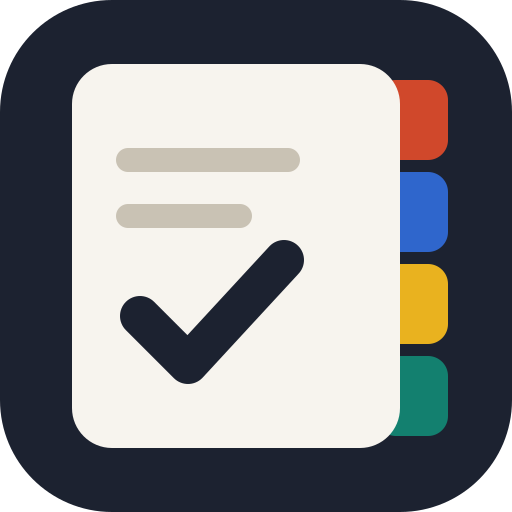
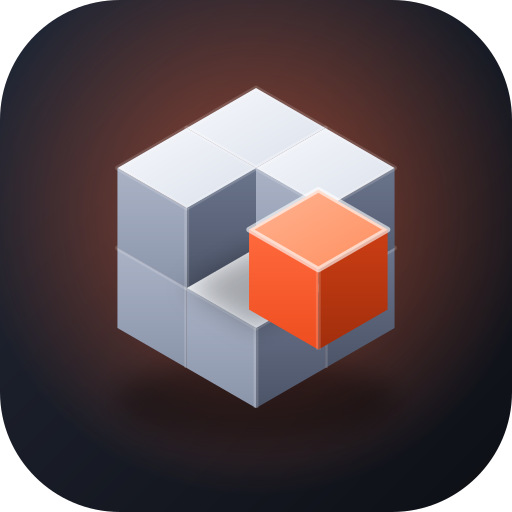
feat(produtividade): novo símbolo 3D — cubo de blocos com a ação a sair
O símbolo antigo (folha com separadores) ficava fraco a 16px. O novo é um
cubo isométrico de oito blocos (o sistema) com o bloco da frente a deslizar
para fora em coral, a cor das Ações (o que fazes hoje). SVG gerado por código;
PNG 192/512/maskable regenerados (maskable sem cantos, cubo dentro da zona
segura). SW prod-v6.

diff --git a/productivity/sw.js b/productivity/sw.js
@@ -17,7 +17,7 @@
    Não há dados remotos: o mundo de exemplo vive no código e no
    localStorage do visitante. Mudar CACHE quando muda código.
    ══════════════════════════════════════════════════════════════════ */
-const CACHE = 'prod-v4';
+const CACHE = 'prod-v6';
 const FONTS = 'prod-fonts-v1';
 
 const STATIC = [
